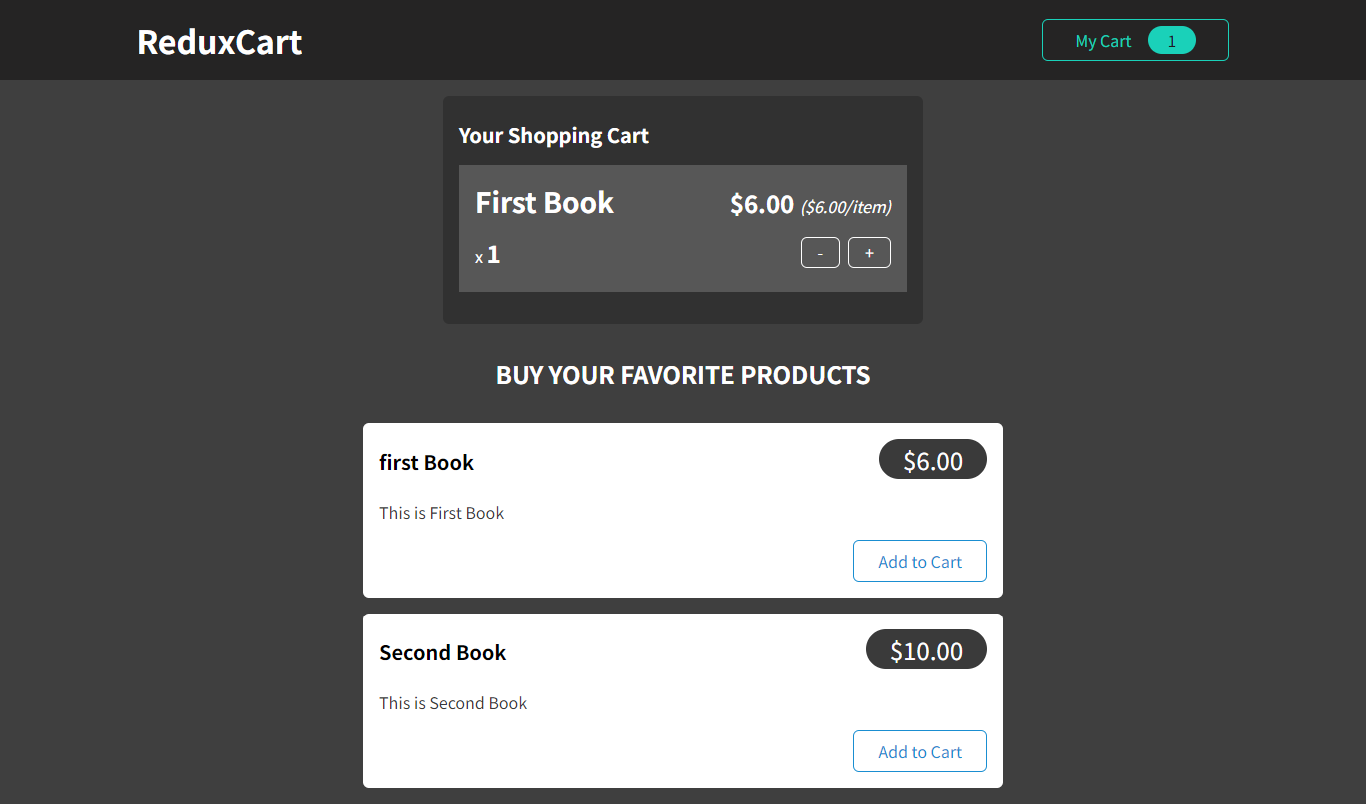
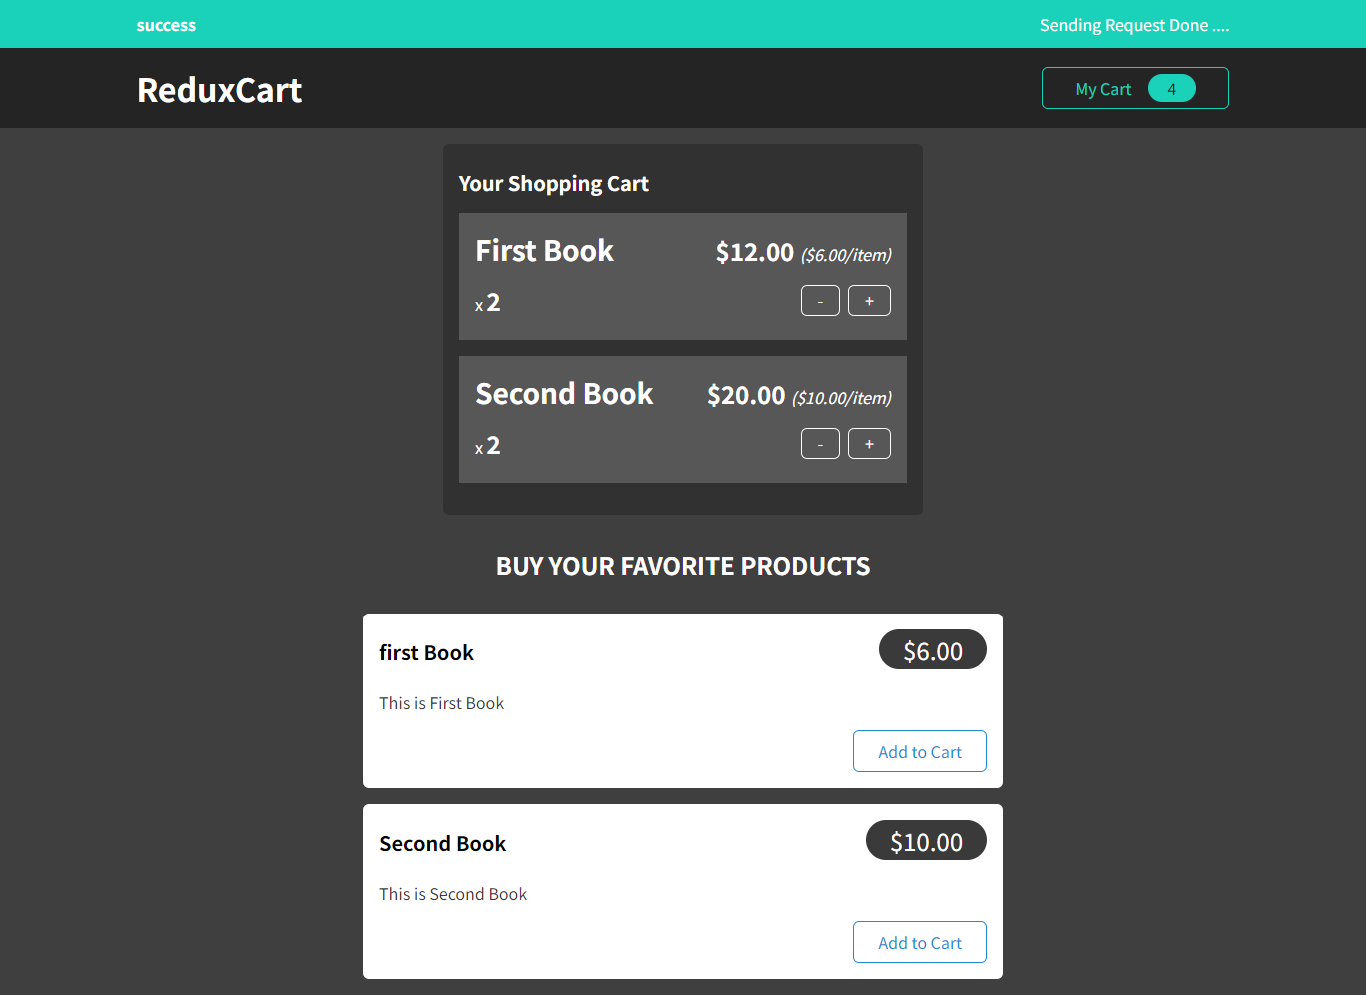
update

diff --git a/portfolio.html b/portfolio.html
@@ -143,50 +143,48 @@
             </div>
             <div class="col-sm-6 col-md-4 col-xs-12">
               <div class="screen gallery">
-                <a href="images/portfolio/React.png"></a>
-                  <img src="images/portfolio/React.png"  alt="React Project"
-                  style="bottom: -232px" />
-                </a>
+                <a href="images/portfolio/React.png"
+                  ><img
+                    src="images/portfolio/React.png"
+                    alt="React Project"
+                    style="bottom: -232px"
+                /></a>
               </div>
             </div>
-            <div class="col-sm-6 col-md-4 col-xs-12">
-                <div class="screen gallery">
-                  <a href="images/portfolio/Tycoon-Egypt.jpg"></a>
-                  <img src="images/portfolio/Tycoon-Egypt.jpg" alt="Tycoon-Egypt"
-                  style="bottom: -232px"  />
-                </a>
-                </div>
-             
-            </div>
-            <div class="col-sm-6 col-md-4 col-xs-12">
-    
-                  <div class="screen gallery">
-                    <a href="images/portfolio/ecommerce.png"></a>
-                    <img src="images/portfolio/ecommerce.png" alt="Vanilla-Js-Ecommerce"
-                    style="bottom: -232px" />
-                  </a>
-                  </div>
-                
-              
-            </div>
+
             <div class="col-sm-6 col-md-4 col-xs-12">
               <div class="screen gallery">
-                <a href="images/portfolio/ventat.png"></a>
-                <img src="images/portfolio/ventat.png" alt="Ventat Ksa Company"
-                style="bottom: -232px" />
-              </a>
+                <a href="images/portfolio/Tycoon-Egypt.jpg"
+                  ><img
+                    src="images/portfolio/Tycoon-Egypt.jpg"
+                    alt="Tycoon-Egypt"
+                    style="bottom: -232px"
+                /></a>
               </div>
-            
             </div>
+
             <div class="col-sm-6 col-md-4 col-xs-12">
               <div class="screen gallery">
-                <a href="images/portfolio/Elnagar.jpg"></a>
-                <img src="images/portfolio/Elnagar.jpg" alt="Elnagar Wordpress Project"
-                style="bottom: -232px"/>
-              </a>
+                <a href="images/portfolio/ecommerce.png"
+                  ><img
+                    src="images/portfolio/ecommerce.png"
+                    alt="Vanilla-Js-Ecommerce"
+                    style="bottom: -232px"
+                /></a>
               </div>
-             
             </div>
+
+            <div class="col-sm-6 col-md-4 col-xs-12">
+              <div class="screen gallery">
+                <a href="images/portfolio/ventat.png"
+                  ><img
+                    src="images/portfolio/ventat.png"
+                    alt="Ventat Ksa Company"
+                    style="bottom: -232px"
+                /></a>
+              </div>
+            </div>
+
             <div class="col-sm-6 col-md-4 col-xs-12">
               <div class="screen gallery">
                 <a href="images/portfolio/marj3.png"
@@ -254,7 +252,17 @@
                 <a href="images/portfolio/Enter-Safe.jpg"
                   ><img
                     src="images/portfolio/Enter-Safe.jpg"
-                    alt="Enter-Safe"
+                    alt="Enter-Safe Worpress Project"
+                    style="bottom: -232px"
+                /></a>
+              </div>
+            </div>
+            <div class="col-sm-6 col-md-4 col-xs-12">
+              <div class="screen gallery">
+                <a href="images/portfolio/Elnagar.jpg"
+                  ><img
+                    src="images/portfolio/Elnagar.jpg"
+                    alt="Elnagar Wordpress Project"
                     style="bottom: -232px"
                 /></a>
               </div>
@@ -264,7 +272,7 @@
                 <a href="images/portfolio/Redux.png"
                   ><img
                     src="images/portfolio/Redux.png"
-                    alt="Enter-Safe"
+                    alt="Redux Project"
                     style="bottom: -232px"
                 /></a>
               </div>
